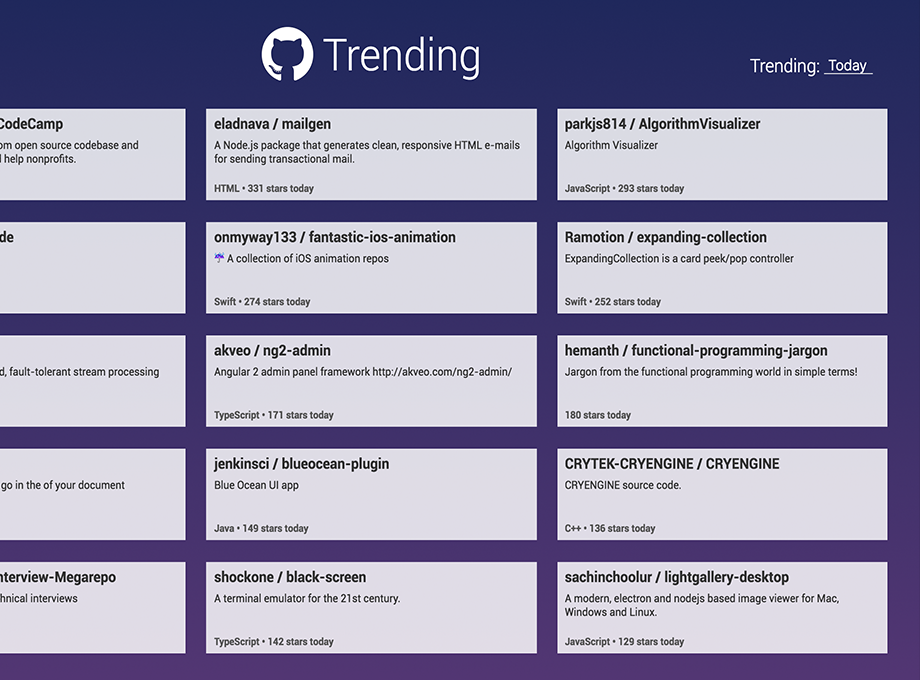
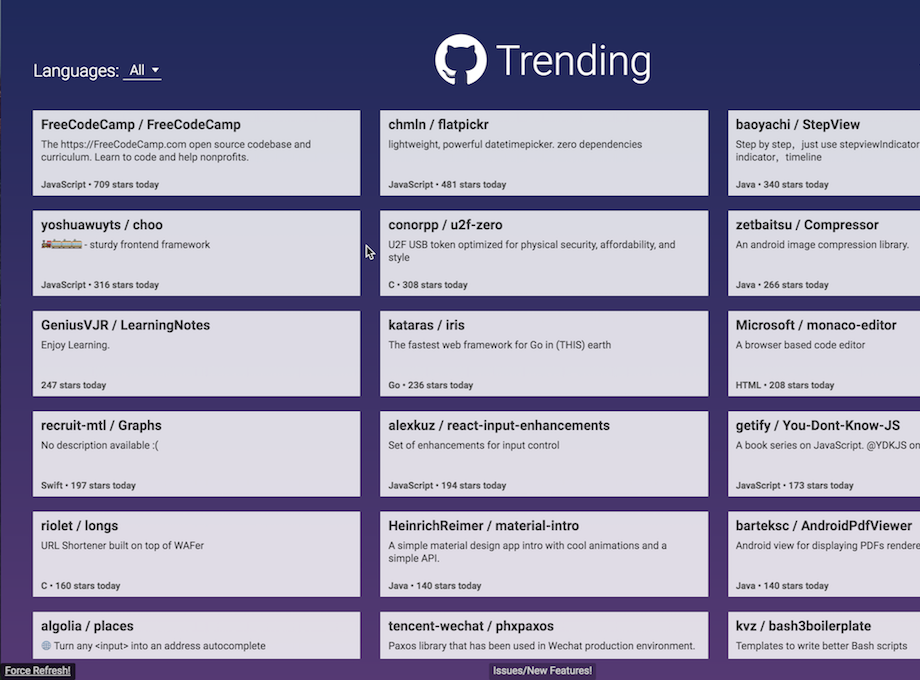
Fixes UI issues

diff --git a/assets/style.css b/assets/style.css
@@ -12,6 +12,10 @@ option {
 	background: #ccc;
 }
 
+::-webkit-scrollbar{
+	width:0px;
+}
+
 body{
     background: linear-gradient(#1f295a, #553973) no-repeat fixed;
 }
@@ -66,8 +70,9 @@ h2{
 	clear: both;
 	width: 100%;
 	margin:10px auto;
-	height: calc(100% - 130px - 15px);
-	overflow: scroll;
+	height: calc(100% - 130px - 25px);
+	overflow-y: scroll;
+	overflow-x: hidden;
 }
 
 .repo{
@@ -242,13 +247,13 @@ input::-webkit-calendar-picker-indicator {
 @media (min-width: 711px) and (max-width: 1023px){
 
 	#repos{
-		margin-top:20px;
+		margin-top:30px;
 	}
 	
 	.repo{
 		width: 49%;
 		height: 100px;
-		margin-top:1.5%;
+		margin-bottom:1.5%;
 		}
 		
 	.repo:nth-child(2n-1){
@@ -277,14 +282,14 @@ input::-webkit-calendar-picker-indicator {
 @media (max-width: 710px){
 	
 	#repos{
-		margin-top:10px;
-		height: calc(100% - 130px - 35px);
+		margin-top:65px;
+		height: calc(100% - 130px - 65px);
 	}
 	
 	.repo{
 		width:90%;
 		height: 100px;
-		margin: 2.25% 5% 0px;
+		margin: 0px 5% 2.25%;
 	}
 	
 	.selection{

diff --git a/assets/my.js b/assets/my.js
@@ -36,10 +36,17 @@ $(document).ready(function () {
     });
     fetch(false);
     $('#langSelect').select2();
-	if (navigator.appVersion.indexOf("Win")!=-1) {
-		$("#repos::-webkit-scrollbar").css("width", "5px").css("background", "transparent");
-		$("#repos::-webkit-scrollbar").css("background", "#ccc").css("border", "1px #cecce8 solid").css("border-radius", "5px");
-	}
+    $( window ).resize(function() {
+        if($(this).width() > 711){
+            $current = $(this).height() - 130 - 25;
+            // if($(this).width() < 710){ $current = $(this).height() - 130 - 65;}
+            $margin = parseFloat($(".repo").css("margin-bottom")) + parseFloat($(".repo").css("margin-top"));
+            $one = $(".repo").height() + $margin;
+            console.log("one:"+$one)
+            $boxes = Math.floor(($current + $margin + 5)/$one);
+            $("#repos").height($boxes * $one - 10)
+        }
+    });
 });
 
 function printEm($json) {
